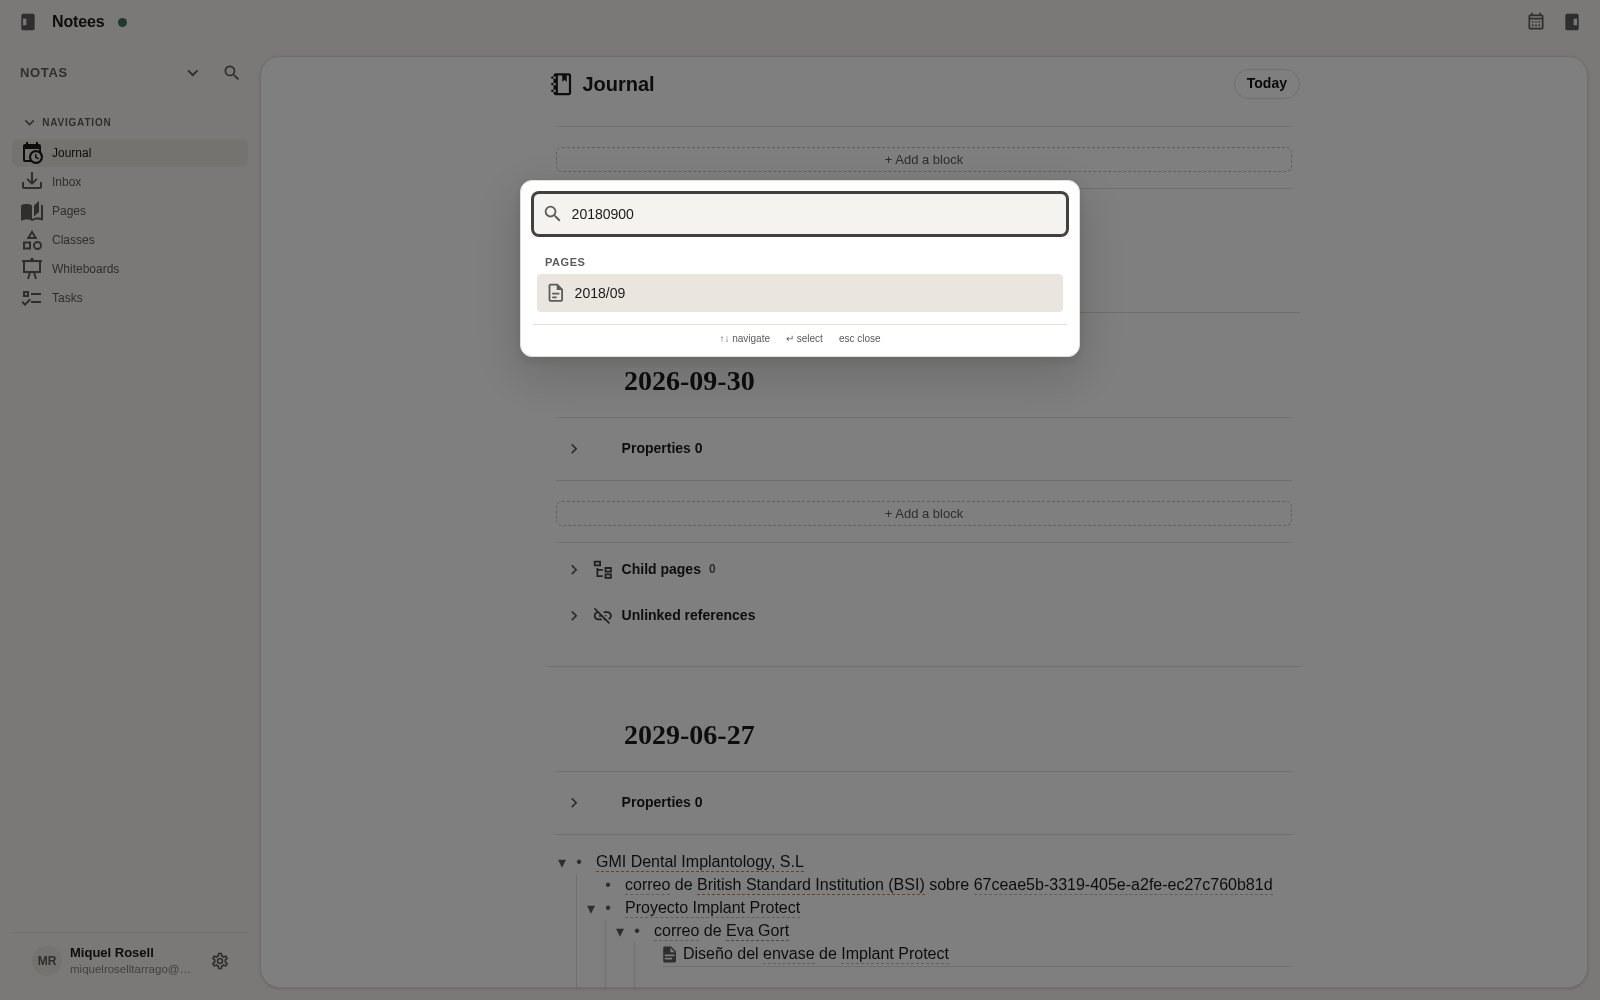
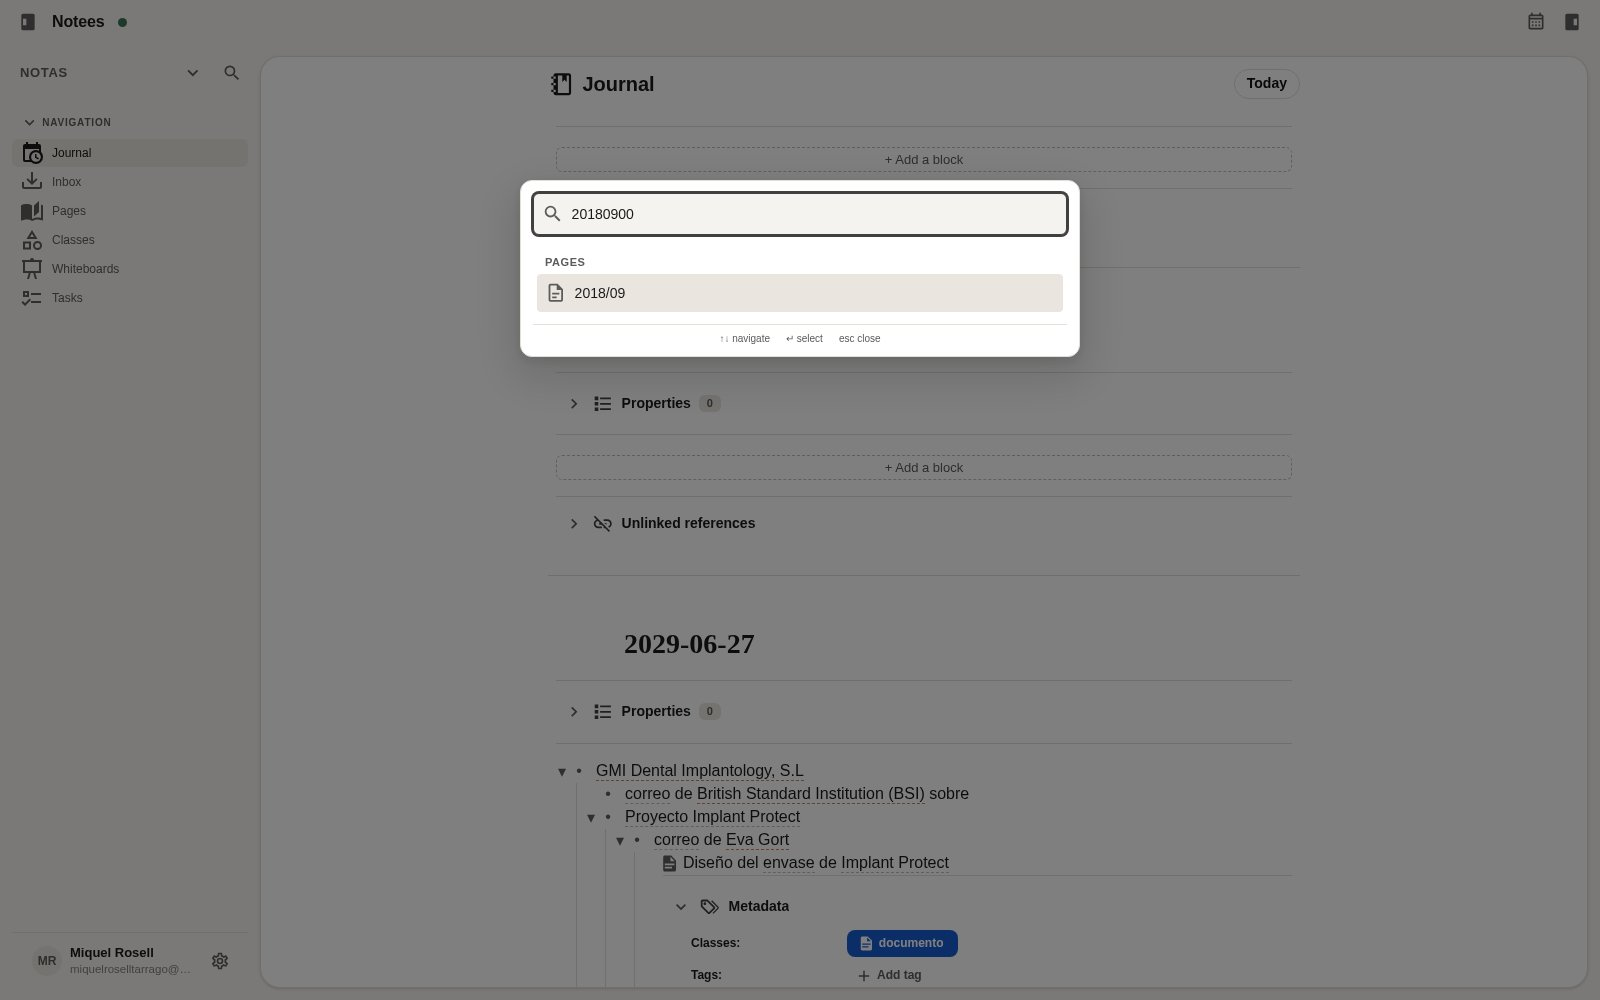
feat(web): delete confirmation modal, sidebar card polish, badge counts; fix breadcrumb uuid mentions
- Page/class deletion asks in the reusable ConfirmationModal (danger)
  naming the display name (never a uuid); blocks still delete instantly.
  After a delete the app navigates to the node's parent, else the default
  view (today's page / journal / pages hub).
- Section counts render as small rounded-rectangle badges (Properties now
  passes its count to the shared section chrome; mdi icon fixed — the old
  name was not in the sprite).
- Sidebar peek cards: external container on surface-container-low, the node
  view renders inside on --color-surface (card within the card); the header
  title IS a Breadcrumbs trail (anchor=right: packs right, clips left, lead
  … pops up the full trail); blocks trail to their containing page; closing
  the last card closes the panel.
- Breadcrumbs: per-crumb name capping (XXXX…), hooks run before the early
  return (React #310 crash on deep links fixed).
- Header classes row renders pills only (no 'Classes:' label); Child pages
  hides when empty and moves before Linked references.
- Migrator fix: unlabeled v1 node_links no longer write the target uuid as
  the mention text (resolver hook, falls back to ''); live data repaired
  via scripts/migrate-mention-texts.mts (11,180 nodes, relay-append,
  idempotent).
- CLI accepts nk_+40 user API keys (server emits 40, operator 32).

Tests: 284 web green, full suite green, verify-min VERIFY-PASS, deep-link
probe clean.

diff --git a/scripts/migrate-v1/content_ast.py b/scripts/migrate-v1/content_ast.py
@@ -73,27 +73,27 @@ def is_flat_token_stream(ast: list[Any]) -> bool:
     return True
 
 
-def normalize_content_ast(ast: list[Any]) -> list[dict[str, Any]]:
+def normalize_content_ast(ast: list[Any], resolve_name: Any = None) -> list[dict[str, Any]]:
     unwrapped = unwrap_crdt_content_ast(ast)
     if is_flat_token_stream(unwrapped):
         return [e for e in unwrapped if isinstance(e, dict)]
-    return legacy_ast_to_tokens(unwrapped)
+    return legacy_ast_to_tokens(unwrapped, resolve_name)
 
 
-def legacy_ast_to_tokens(ast: list[Any]) -> list[dict[str, Any]]:
+def legacy_ast_to_tokens(ast: list[Any], resolve_name: Any = None) -> list[dict[str, Any]]:
     out: list[dict[str, Any]] = []
     for block in ast:
         if isinstance(block, dict):
-            _convert_block(block, out, frozenset())
+            _convert_block(block, out, frozenset(), resolve_name)
     return out
 
 
-def _convert_block(block: dict[str, Any], out: list[dict[str, Any]], inherited: frozenset[str]) -> None:
+def _convert_block(block: dict[str, Any], out: list[dict[str, Any]], inherited: frozenset[str], resolve_name: Any = None) -> None:
     block_type = block.get("type")
     if block_type in ("paragraph", "heading"):
         for child in block.get("children") or []:
             if isinstance(child, dict):
-                _convert_inline(child, out, inherited)
+                _convert_inline(child, out, inherited, resolve_name)
     elif block_type == "text":
         text = block.get("text")
         if isinstance(text, str):
@@ -109,10 +109,10 @@ def _convert_block(block: dict[str, Any], out: list[dict[str, Any]], inherited: 
         # Unknown legacy block: try its children so no text is lost.
         for child in block.get("children") or []:
             if isinstance(child, dict):
-                _convert_inline(child, out, inherited)
+                _convert_inline(child, out, inherited, resolve_name)
 
 
-def _convert_inline(node: dict[str, Any], out: list[dict[str, Any]], inherited: frozenset[str]) -> None:
+def _convert_inline(node: dict[str, Any], out: list[dict[str, Any]], inherited: frozenset[str], resolve_name: Any = None) -> None:
     node_type = node.get("type")
     if node_type == "text":
         text = node.get("text")
@@ -128,7 +128,7 @@ def _convert_inline(node: dict[str, Any], out: list[dict[str, Any]], inherited: 
             "underline": "highlight",
             "highlight": "highlight",
         }[node_type]
-        _convert_children(node, out, inherited, mark)
+        _convert_children(node, out, inherited, mark, resolve_name)
     elif node_type == "code":
         text = node.get("text")
         out.append(_text_token(text if isinstance(text, str) else "", inherited | {"code"}))
@@ -153,21 +153,27 @@ def _convert_inline(node: dict[str, Any], out: list[dict[str, Any]], inherited: 
                 token["displayText"] = label
             out.append(token)
         else:
-            out.append({"type": "mention", "targetNodeId": target, "text": label if label else target})
+            # Unlabeled links must NOT fall back to the target id: the uuid
+            # would leak into excerpts/breadcrumbs as the node's display
+            # text. Resolve the v1 name when the migrator supplies a
+            # resolver; otherwise leave the captured text empty (v2 renders
+            # resolve the target's live name at display time).
+            captured = label if label else (resolve_name(target) if callable(resolve_name) else "")
+            out.append({"type": "mention", "targetNodeId": target, "text": captured})
     elif node_type == "user_mention":
         label = node.get("label")
         out.append(_text_token(f"@{label if isinstance(label, str) else ''}", inherited))
     else:
         for child in node.get("children") or []:
             if isinstance(child, dict):
-                _convert_inline(child, out, inherited)
+                _convert_inline(child, out, inherited, resolve_name)
 
 
-def _convert_children(node: dict[str, Any], out: list[dict[str, Any]], inherited: frozenset[str], mark: str) -> None:
+def _convert_children(node: dict[str, Any], out: list[dict[str, Any]], inherited: frozenset[str], mark: str, resolve_name: Any = None) -> None:
     merged = inherited | {mark}
     for child in node.get("children") or []:
         if isinstance(child, dict):
-            _convert_inline(child, out, merged)
+            _convert_inline(child, out, merged, resolve_name)
 
 
 def _text_token(text: str, marks: frozenset[str]) -> dict[str, Any]:
@@ -196,7 +202,7 @@ def _collect_plain(node: Any) -> str:
     return "".join(buffer)
 
 
-def content_tokens_from_source(source: Any) -> list[dict[str, Any]]:
+def content_tokens_from_source(source: Any, resolve_name: Any = None) -> list[dict[str, Any]]:
     """Parse a stored content document (serialized JSON or decoded list)."""
     if source is None:
         return []
@@ -207,7 +213,7 @@ def content_tokens_from_source(source: Any) -> list[dict[str, Any]]:
         if not isinstance(parsed, list):
             # Legacy plain-text content.
             return [{"type": "text", "text": source}]
-        return normalize_content_ast(parsed)
+        return normalize_content_ast(parsed, resolve_name)
     if isinstance(source, list):
         return normalize_content_ast(source)
     return []

diff --git a/scripts/migrate-v1/migrate.py b/scripts/migrate-v1/migrate.py
@@ -247,6 +247,13 @@ class WorkspaceTransformer:
         self.deferred: list[dict[str, Any]] = []  # setExtends companions, emitted at end
         self._file_schema_emitted: set[str] = set()
         self.last_content: dict[str, str] = {}  # nodeId -> latest v1 plain text (verification)
+        # Best-effort v1 name table for mention capture: class.create carries
+        # names; node.create may in some v1 builds (v2 derives the rest from
+        # content at display time, so missing entries are safe).
+        self.v1_names: dict[str, str] = {}
+
+    def resolve_v1_name(self, node_id: str) -> str:
+        return self.v1_names.get(node_id, "")
 
     # -- pass 1 ---------------------------------------------------------------
     def collect_known_ids(self) -> None:
@@ -262,6 +269,8 @@ class WorkspaceTransformer:
                     node_id = payload.get("nodeId")
                     if isinstance(node_id, str):
                         self.known_ids.add(node_id)
+                        if isinstance(payload.get("name"), str):
+                            self.v1_names[node_id] = payload["name"]
                         if payload.get("kind") == "class":
                             self.class_kind_nodes.add(node_id)
                         if node_id not in self.first_create_seq:
@@ -277,6 +286,8 @@ class WorkspaceTransformer:
                     class_id = payload.get("classId")
                     if isinstance(class_id, str):
                         self.known_ids.add(class_id)
+                        if isinstance(payload.get("name"), str):
+                            self.v1_names[class_id] = payload["name"]
                         if class_id not in self.class_create_seq:
                             self.class_create_seq[class_id] = row["seq"]
                 elif op == "propertySchema.create":
@@ -453,7 +464,7 @@ class WorkspaceTransformer:
             out_payload["parentId"] = parent_id
         initial = p.get("initialContent")
         if isinstance(initial, list) and initial:
-            tokens = content_tokens_from_source(initial)
+            tokens = content_tokens_from_source(initial, self.resolve_v1_name)
             out_payload["contentAst"] = tokens
             self.last_content[node_id] = plain_text(tokens)
         envs = [self._envelope(row, "object.create", out_payload)]
@@ -487,7 +498,7 @@ class WorkspaceTransformer:
             self._note("skipped_by_reason", "crdt_only_no_mirror")
             return []
         raw_string = source if isinstance(source, str) else None
-        tokens = content_tokens_from_source(source)
+        tokens = content_tokens_from_source(source, self.resolve_v1_name)
         if raw_string is not None and raw_string.strip():
             try:
                 json.loads(raw_string)
@@ -994,7 +1005,7 @@ def pick_spot_ids(workspace: str, count: int) -> tuple[list[str], dict[str, str]
             source = row["payload"].get("content") if "content" in row["payload"] else row["payload"].get("crdtUpdate")
             if source is None:
                 continue
-            tokens = content_tokens_from_source(source)
+            tokens = content_tokens_from_source(source, self.resolve_v1_name)
             text = plain_text(tokens)
             key = (row["physical"], row["logical"])
             if key >= (best.get(node_id, (0, 0, ""))[0], best.get(node_id, (0, 0, ""))[1]):
